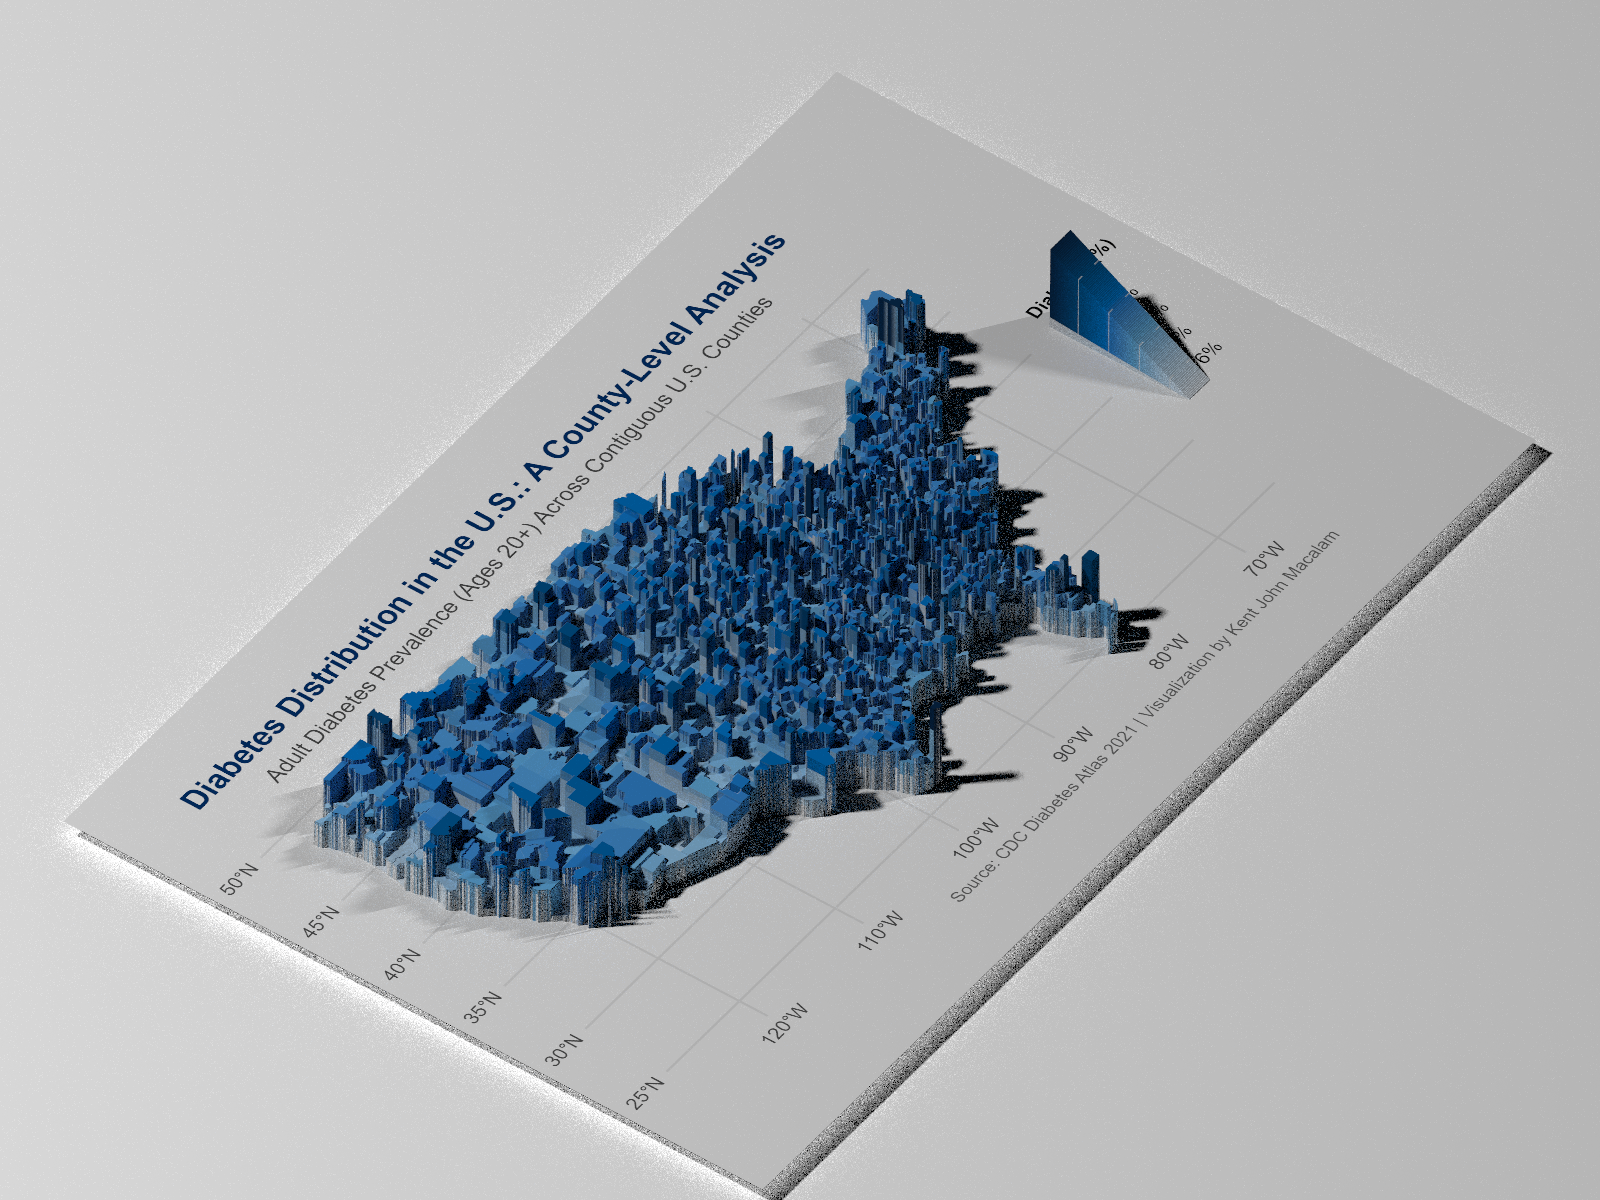
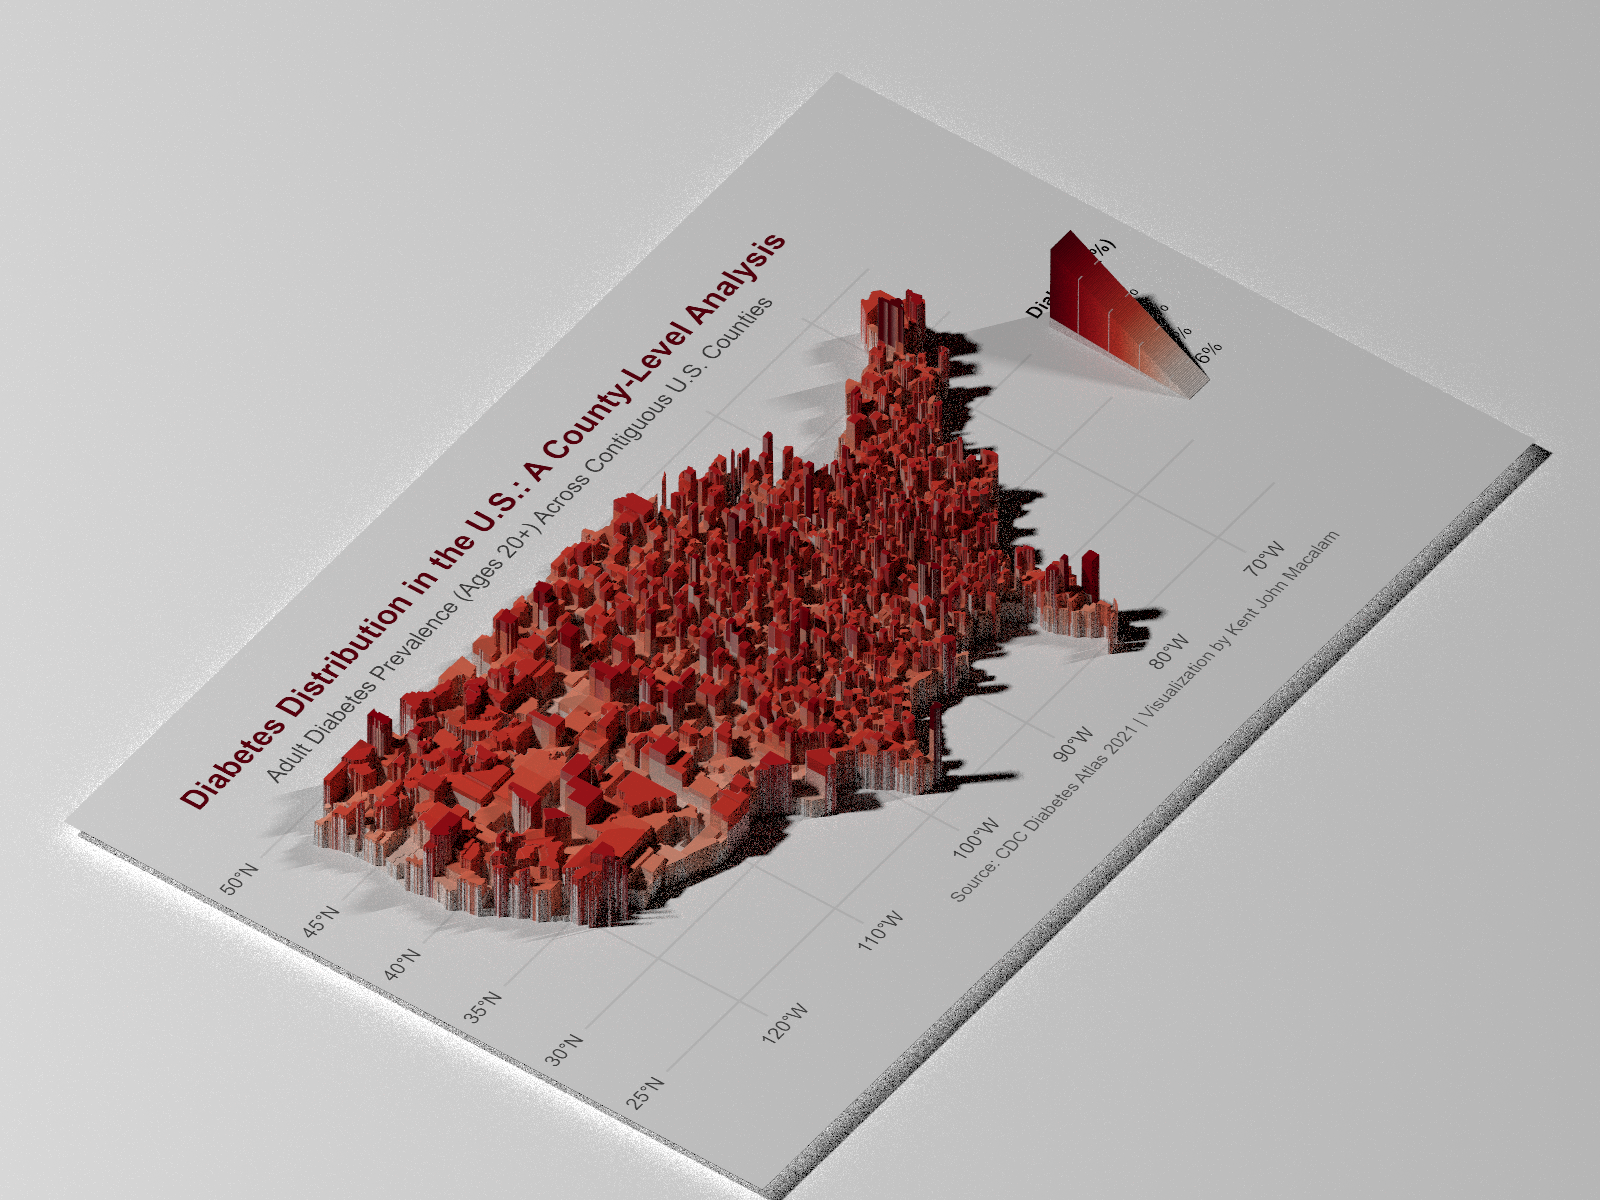
Update diabetes visualization to clinical blood-glucose red palette

diff --git a/README.md b/README.md
@@ -43,7 +43,7 @@ This project visualizes the geographic distribution of adult diabetes prevalence
 - **Language:** R
 - **3D rendering:** `rayshader`
 - **Spatial data:** `sf`, `stars`, `raster`
-- **Visualization:** `ggplot2`, Diabetes Awareness Blue Sequential Palette (IDF #0072CE standard)
+- **Visualization:** `ggplot2`, Clinical Blood-Glucose & Health Alert Red Sequential Palette (`#FFF5F0` to `#5A0009`)
 - **Data wrangling:** `dplyr`, `stringr`, `readr`
 
 ---
